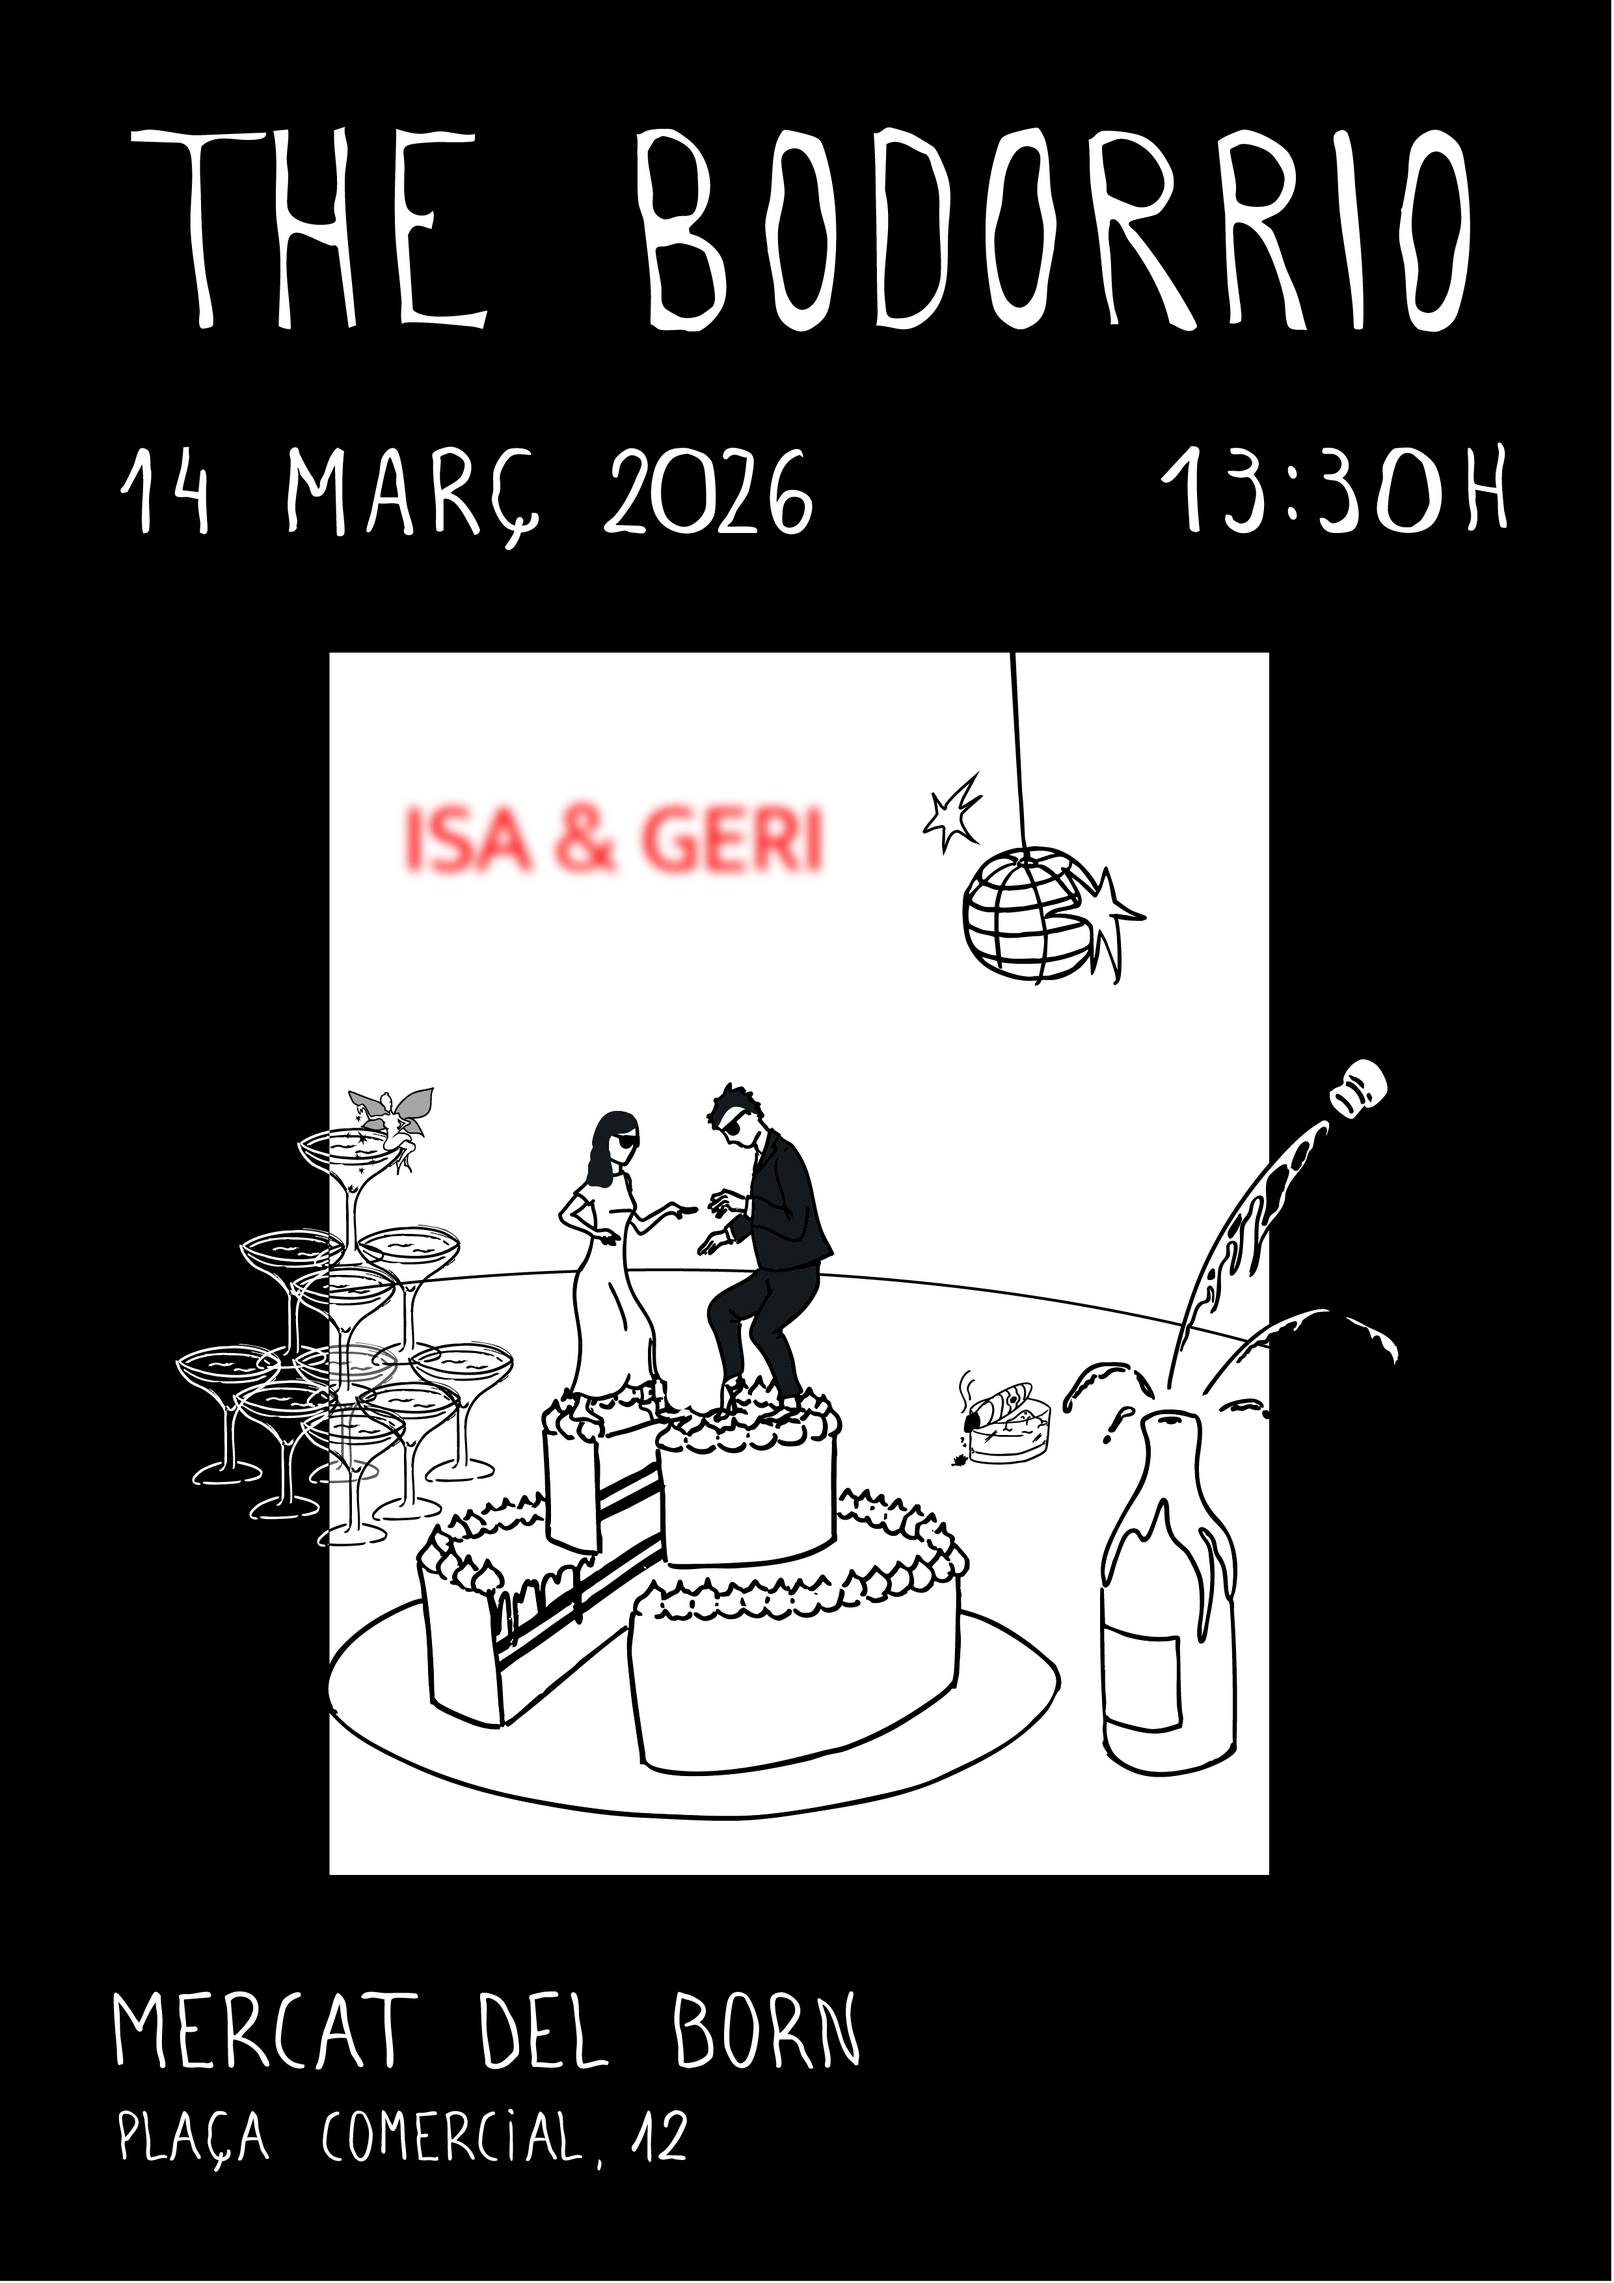
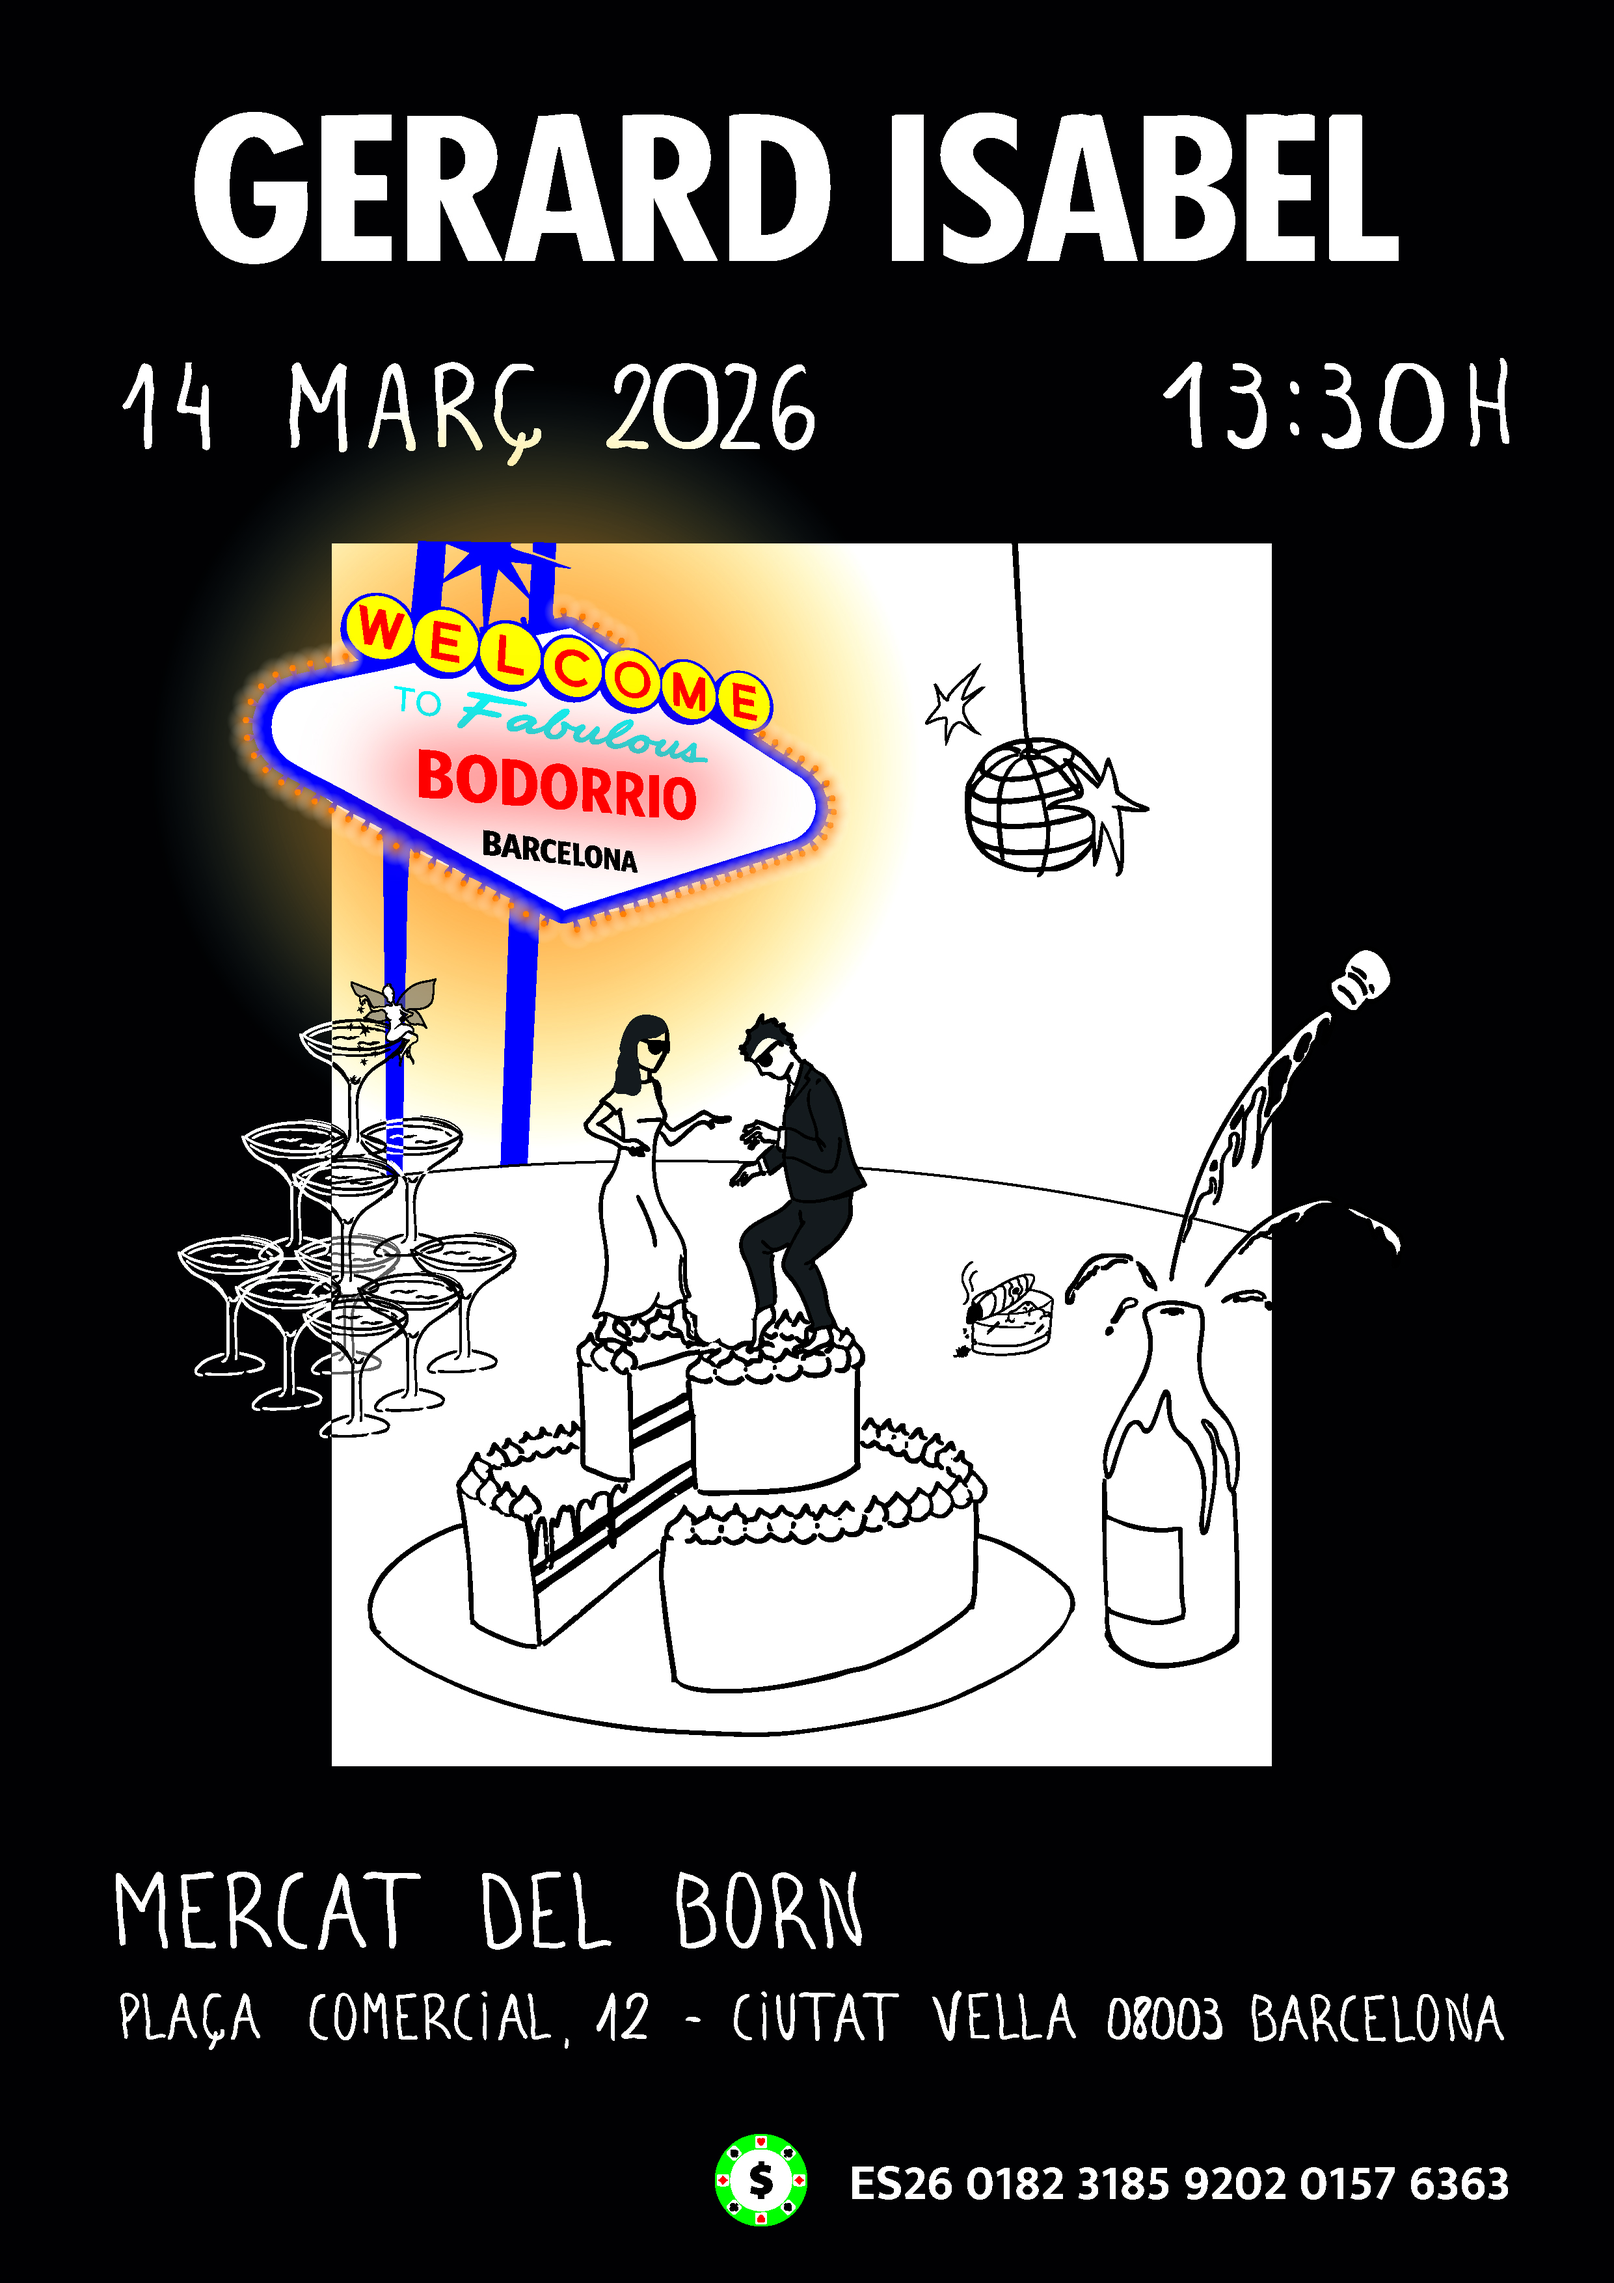
IBAN

diff --git a/bodorrio/index.html b/bodorrio/index.html
@@ -43,8 +43,10 @@
     <img id="wedding-img" src="SaveTheDate.jpg" usemap="#weddingmap" alt="Wedding Invitation" width="2481" height="3508">
   </div>
   <map name="weddingmap">
-    <area shape="rect" coords="150, 3030, 1320, 3350" href="https://maps.app.goo.gl/Jf2iKAyXFEtpkZw3A" alt="See location" target="_blank">
+    <area shape="rect" coords="159,2857,2326,3160" href="https://maps.app.goo.gl/Jf2iKAyXFEtpkZw3A" alt="Lloc" target="_blank">
+    <area shape="rect" coords="1082,3263,2351,3442" href="#" alt="Núm. de compte" onclick="copyAccountNumber(event)">
   </map>
+  <div id="popup" style="display:none;position:fixed;top:30px;left:50%;transform:translateX(-50%);background:#222;color:#fff;padding:12px 24px;border-radius:8px;z-index:1000;font-size:1.1em;box-shadow:0 2px 8px #0008;">Número de compte copiat!</div>
   <script src="https://cdn.jsdelivr.net/npm/image-map-resizer@1.0.10/js/imageMapResizer.min.js"></script>
   <script>
     window.onload = function() {
@@ -52,6 +54,15 @@
         imageMapResize();
       }
     };
+    function copyAccountNumber(e) {
+      e.preventDefault();
+      const account = 'ES26 0182 3185 9202 0157 6363'; // Replace with your real account number
+      navigator.clipboard.writeText(account).then(function() {
+        const popup = document.getElementById('popup');
+        popup.style.display = 'block';
+        setTimeout(() => { popup.style.display = 'none'; }, 1800);
+      });
+    }
   </script>
 </body>
 </html>
